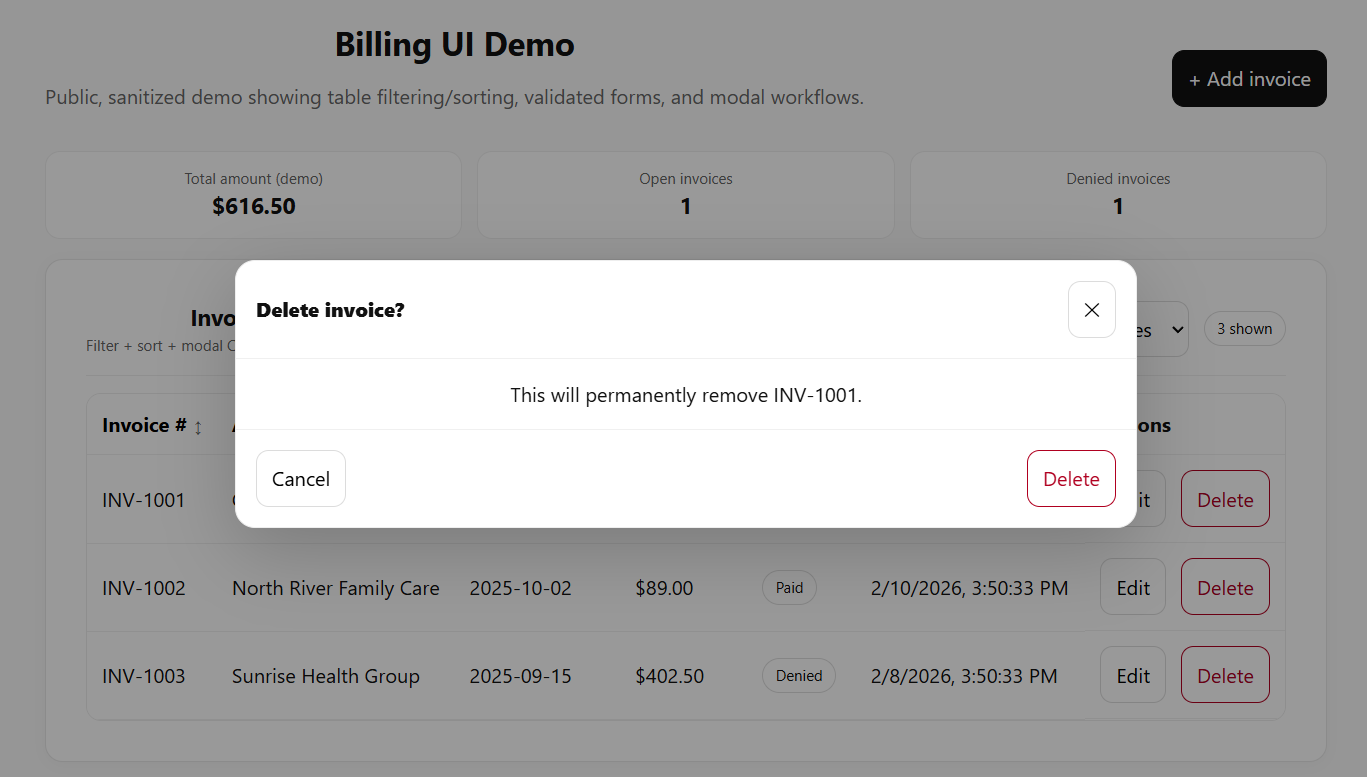
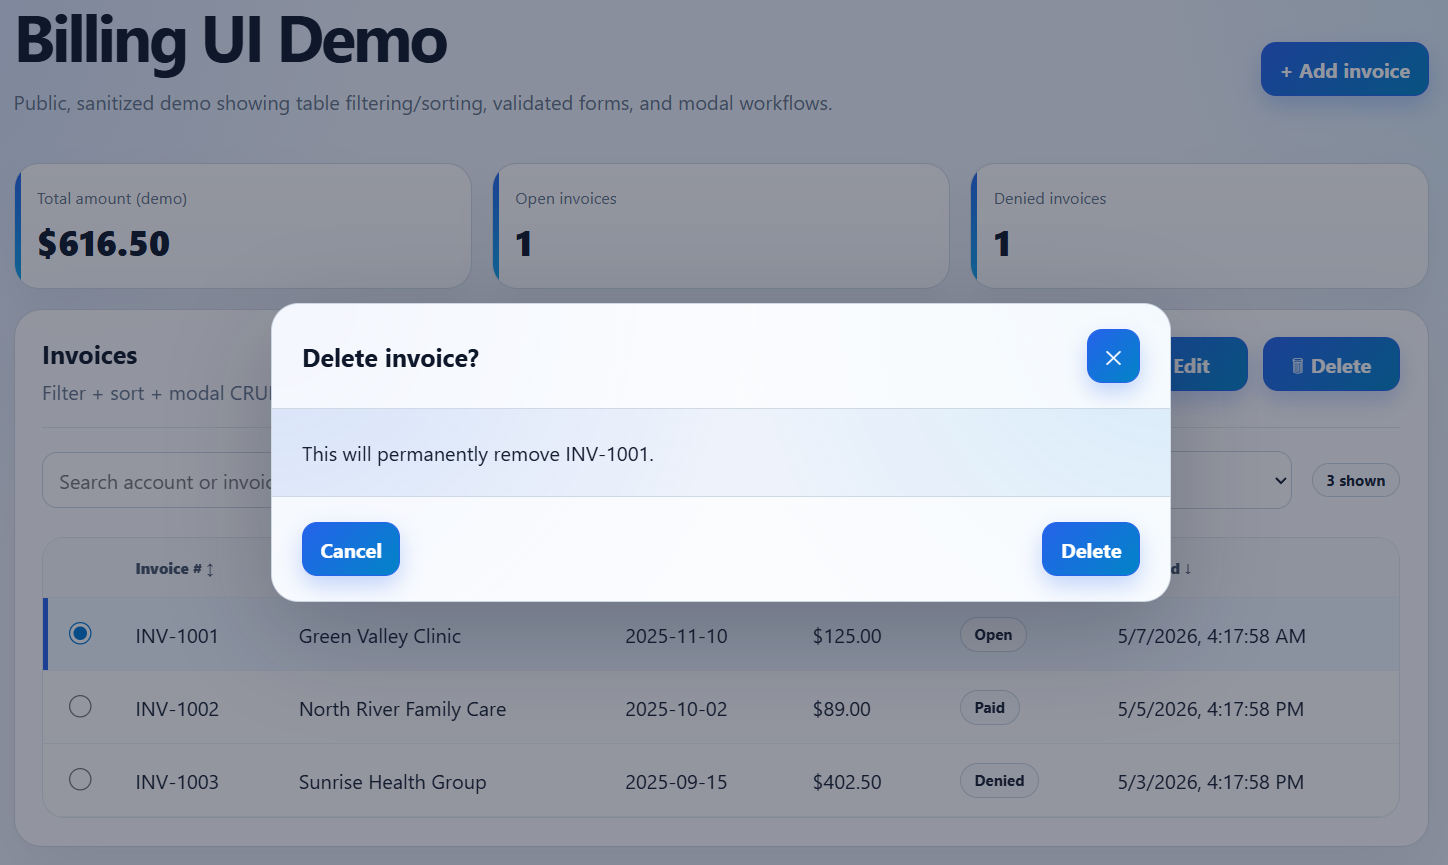
Align style classes on modals and main form, change pictures of billing project

diff --git a/projects/billing-ui-demo/src/styles.css b/projects/billing-ui-demo/src/styles.css
@@ -72,21 +72,26 @@ button:hover {
   box-shadow: 0 10px 24px rgba(15, 23, 42, 0.1);
 }
 
-button.primary {
+button.primary,
+button.ghost,
+button.danger,
+.btn-primary-custom,
+.btn-secondary-custom,
+.btn-danger-custom {
   border-color: #2563eb;
   background: linear-gradient(135deg, #2563eb, #0284c7);
-  color: white;
+  color: #ffffff;
   font-weight: 700;
+  box-shadow: 0 8px 18px rgba(37, 99, 235, 0.25);
 }
 
-button.ghost {
-  background: #f8fafc;
-}
-
-button.danger {
-  border-color: #fecaca;
-  background: #fff1f2;
-  color: #be123c;
+button.primary:hover,
+button.ghost:hover,
+button.danger:hover,
+.btn-primary-custom:hover,
+.btn-secondary-custom:hover,
+.btn-danger-custom:hover {
+  background: linear-gradient(135deg, #1d4ed8, #0369a1);
 }
 
 button:disabled {
@@ -98,7 +103,8 @@ button:disabled {
 
 input,
 select,
-textarea {
+textarea,
+.form-input {
   width: 100%;
   border: 1px solid #cbd5e1;
   border-radius: 12px;
@@ -109,7 +115,8 @@ textarea {
 
 input:focus,
 select:focus,
-textarea:focus {
+textarea:focus,
+.form-input:focus {
   outline: 3px solid rgba(37, 99, 235, 0.16);
   border-color: #2563eb;
 }
@@ -189,8 +196,20 @@ th button:hover {
   color: #2563eb;
 }
 
+tbody tr {
+  cursor: pointer;
+}
+
 tbody tr:hover {
   background: #f8fbff;
+}
+
+tbody tr.selected-row {
+  background: #eff6ff;
+}
+
+tbody tr.selected-row td:first-child {
+  box-shadow: inset 4px 0 0 #2563eb;
 }
 
 .badge {
@@ -203,9 +222,6 @@ tbody tr:hover {
   background: #f8fafc;
   font-size: 12px;
   font-weight: 700;
-}
-
-.badge:has(> *) {
   white-space: nowrap;
 }
 
@@ -240,25 +256,6 @@ tbody tr:hover {
   background: #e2e8f0;
 }
 
-@media (max-width: 760px) {
-  .container {
-    padding: 22px 14px;
-  }
-
-  .kpi {
-    grid-template-columns: 1fr;
-  }
-
-  .form-grid {
-    grid-template-columns: 1fr;
-  }
-
-  .card {
-    padding: 18px;
-    border-radius: 18px;
-  }
-}
-
 .table-header {
   align-items: flex-start;
 }
@@ -271,6 +268,10 @@ tbody tr:hover {
   display: flex;
   gap: 12px;
   align-items: center;
+}
+
+.selected-actions button {
+  min-width: 110px;
 }
 
 .filters-row {
@@ -292,20 +293,48 @@ tbody tr:hover {
   cursor: pointer;
 }
 
-tbody tr {
-  cursor: pointer;
+/* Modal windows */
+.modal-backdrop {
+  position: fixed;
+  inset: 0;
+  background: rgba(15, 23, 42, 0.45);
+  display: flex;
+  align-items: center;
+  justify-content: center;
+  padding: 24px;
+  z-index: 1000;
 }
 
-tbody tr.selected-row {
-  background: #eff6ff;
+.modal-card,
+.custom-modal .modal-content {
+  width: min(720px, 100%);
+  background:
+    radial-gradient(circle at top left, rgba(37, 99, 235, 0.12), transparent 24rem),
+    radial-gradient(circle at top right, rgba(14, 165, 233, 0.1), transparent 22rem),
+    #eef3fb;
+  border: 1px solid rgba(203, 213, 225, 0.9);
+  border-radius: 22px;
+  box-shadow: 0 24px 80px rgba(15, 23, 42, 0.25);
+  overflow: hidden;
 }
 
-tbody tr.selected-row td:first-child {
-  box-shadow: inset 4px 0 0 #2563eb;
+.modal-header,
+.custom-modal .modal-header {
+  padding: 20px 24px;
+  border-bottom: 1px solid rgba(203, 213, 225, 0.9);
+  background: rgba(255, 255, 255, 0.72);
 }
 
-.selected-actions button {
-  min-width: 110px;
+.modal-body,
+.custom-modal .modal-body {
+  padding: 24px;
+}
+
+.modal-footer,
+.custom-modal .modal-footer {
+  padding: 20px 24px;
+  border-top: 1px solid rgba(203, 213, 225, 0.9);
+  background: rgba(255, 255, 255, 0.72);
 }
 
 @media (max-width: 850px) {
@@ -322,79 +351,21 @@ tbody tr.selected-row td:first-child {
   }
 }
 
-/* === Shared Container Style (same as main form) === */
-.app-card {
-  background: #ffffff;
-  border-radius: 12px;
-  padding: 20px;
-  box-shadow: 0 4px 12px rgba(0, 0, 0, 0.05);
-}
+@media (max-width: 760px) {
+  .container {
+    padding: 22px 14px;
+  }
 
-/* === Modal Customization === */
-.custom-modal .modal-content {
-  border-radius: 12px;
-  border: none;
-  padding: 0;
-  box-shadow: 0 6px 20px rgba(0, 0, 0, 0.1);
-}
+  .kpi {
+    grid-template-columns: 1fr;
+  }
 
-/* Header */
-.custom-modal .modal-header {
-  border-bottom: 1px solid #eee;
-  padding: 16px 20px;
-  font-weight: 600;
-  font-size: 18px;
-}
+  .form-grid {
+    grid-template-columns: 1fr;
+  }
 
-/* Body */
-.custom-modal .modal-body {
-  padding: 20px;
-}
-
-/* Footer */
-.custom-modal .modal-footer {
-  border-top: 1px solid #eee;
-  padding: 16px 20px;
-}
-
-/* === Inputs (match main form) === */
-.form-input {
-  border-radius: 8px;
-  border: 1px solid #ddd;
-  padding: 10px 12px;
-  width: 100%;
-  transition: all 0.2s ease;
-}
-
-.form-input:focus {
-  border-color: #4f46e5;
-  outline: none;
-  box-shadow: 0 0 0 2px rgba(79, 70, 229, 0.1);
-}
-
-/* === Buttons === */
-.btn-primary-custom {
-  background-color: #4f46e5;
-  border: none;
-  border-radius: 8px;
-  padding: 8px 16px;
-  font-weight: 500;
-}
-
-.btn-primary-custom:hover {
-  background-color: #4338ca;
-}
-
-.btn-danger-custom {
-  background-color: #dc2626;
-  border: none;
-  border-radius: 8px;
-  padding: 8px 16px;
-}
-
-.btn-secondary-custom {
-  background-color: #f3f4f6;
-  color: #111;
-  border-radius: 8px;
-  padding: 8px 16px;
+  .card {
+    padding: 18px;
+    border-radius: 18px;
+  }
 }

diff --git a/projects/billing-ui-demo/src/components/Modal.tsx b/projects/billing-ui-demo/src/components/Modal.tsx
@@ -21,49 +21,16 @@ export function Modal({ title, isOpen, onClose, children, footer }: Props) {
   if (!isOpen) return null;
 
   return (
-    <div
-      role="dialog"
-      aria-modal="true"
-      aria-label={title}
-      onMouseDown={onClose}
-      style={{
-        position: "fixed",
-        inset: 0,
-        background: "rgba(0,0,0,0.4)",
-        display: "flex",
-        padding: 18,
-        alignItems: "center",
-        justifyContent: "center",
-        zIndex: 50,
-      }}
-    >
-      <div
-        onMouseDown={(e) => e.stopPropagation()}
-        style={{
-          width: "min(720px, 100%)",
-          background: "white",
-          borderRadius: 16,
-          border: "1px solid #eee",
-          boxShadow: "0 18px 60px rgba(0,0,0,0.2)",
-          overflow: "hidden",
-        }}
-      >
-        <div style={{ padding: 16, borderBottom: "1px solid #f0f0f0" }} className="row-between">
-          <div>
-            <div style={{ fontWeight: 800 }}>{title}</div>
-          </div>
-          <button className="ghost" onClick={onClose} aria-label="Close">
-            ✕
-          </button>
+    <div className="modal-backdrop" onClick={onClose}>
+      <div className="modal-card" onClick={(e) => e.stopPropagation()}>
+        <div className="modal-header row-between">
+          <h2>{title}</h2>
+          <button className="primary" onClick={onClose}>✕</button>
         </div>
 
-        <div style={{ padding: 16 }}>{children}</div>
+        <div className="modal-body">{children}</div>
 
-        {footer && (
-          <div style={{ padding: 16, borderTop: "1px solid #f0f0f0" }} className="row-between">
-            {footer}
-          </div>
-        )}
+        {footer && <div className="modal-footer row-between">{footer}</div>}
       </div>
     </div>
   );
